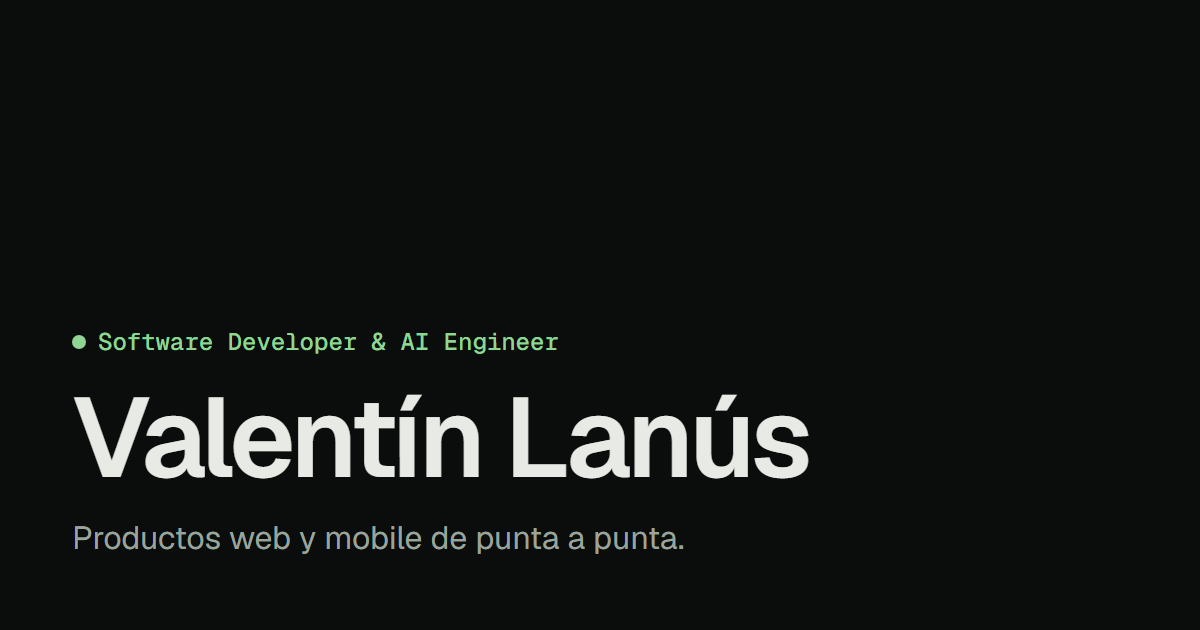
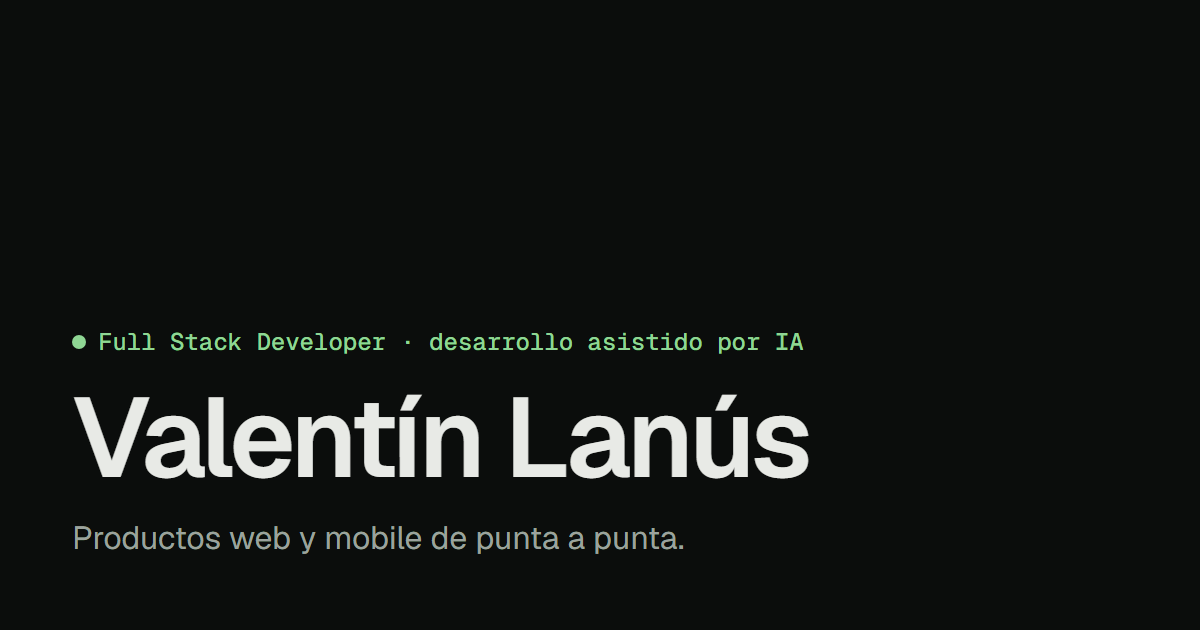
feat: rol Full Stack Developer con desarrollo asistido por IA

Changed region(s): [[0.0617, 0.5127, 0.6783, 0.573]]

diff --git a/src/i18n/es.ts b/src/i18n/es.ts
@@ -3,9 +3,9 @@ import type { SiteContent } from './types';
 
 export default {
   meta: {
-    title: 'Valentín Lanús · Software Developer & AI Engineer',
+    title: 'Valentín Lanús · Full Stack Developer · desarrollo asistido por IA',
     description:
-      'Desarrollador full-stack. Construyo productos web y mobile de punta a punta, con IA integrada donde suma de verdad.',
+      'Desarrollador full stack y mobile. Construyo productos web y mobile de punta a punta, con la IA como herramienta y no como piloto automático.',
     ogImage: '/og-es.png',
   },
   nav: {
@@ -22,9 +22,9 @@ export default {
   hero: {
     eyebrow: '// portfolio',
     name: ['Valentín', 'Lanús'],
-    role: 'Software Developer & AI Engineer',
+    role: 'Full Stack Developer · desarrollo asistido por IA',
     tagline:
-      'Construyo productos web y mobile de punta a punta, del backend a la interfaz, con IA integrada donde suma de verdad.',
+      'Construyo productos web y mobile de punta a punta, del backend a la interfaz, con la IA como herramienta y no como piloto automático.',
     ctaPrimary: 'Hablemos',
     ctaSecondary: 'Ver proyectos',
   },

diff --git a/src/i18n/en.ts b/src/i18n/en.ts
@@ -3,9 +3,9 @@ import type { SiteContent } from './types';
 
 export default {
   meta: {
-    title: 'Valentín Lanús · Software Developer & AI Engineer',
+    title: 'Valentín Lanús · Full Stack Developer · AI-assisted development',
     description:
-      'Full-stack developer. I build web and mobile products end to end, with AI built in where it actually adds value.',
+      'Full-stack and mobile developer. I build web and mobile products end to end, with AI as a tool, not an autopilot.',
     ogImage: '/og-en.png',
   },
   nav: {
@@ -22,9 +22,9 @@ export default {
   hero: {
     eyebrow: '// portfolio',
     name: ['Valentín', 'Lanús'],
-    role: 'Software Developer & AI Engineer',
+    role: 'Full Stack Developer · AI-assisted development',
     tagline:
-      'I build web and mobile products end to end, from the backend to the interface, with AI built in where it actually adds value.',
+      'I build web and mobile products end to end, from the backend to the interface, with AI as a tool, not an autopilot.',
     ctaPrimary: 'Let’s talk',
     ctaSecondary: 'See projects',
   },

diff --git a/tests/i18n.spec.ts b/tests/i18n.spec.ts
@@ -13,7 +13,7 @@ const SITE = config.site!.replace(/\/$/, '');
 
 test('SEO en inglés: title, canonical y hreflang', async ({ page }) => {
   await page.goto('/en');
-  await expect(page).toHaveTitle('Valentín Lanús · Software Developer & AI Engineer');
+  await expect(page).toHaveTitle('Valentín Lanús · Full Stack Developer · AI-assisted development');
   await expect(page.locator('link[rel="canonical"]')).toHaveAttribute('href', `${SITE}/en`);
   await expect(page.locator('link[hreflang="es"]')).toHaveAttribute('href', `${SITE}/`);
   await expect(page.locator('link[hreflang="en"]')).toHaveAttribute('href', `${SITE}/en`);
@@ -28,7 +28,7 @@ test('SEO en español: descripción y og:locale', async ({ page }) => {
   await page.goto('/');
   await expect(page.locator('meta[name="description"]')).toHaveAttribute(
     'content',
-    /Desarrollador full-stack/,
+    /Desarrollador full stack y mobile/,
   );
   await expect(page.locator('meta[property="og:locale"]')).toHaveAttribute('content', 'es_AR');
   await expect(page.locator('main#main')).toHaveCount(1);

diff --git a/CONTENT.md b/CONTENT.md
@@ -6,9 +6,9 @@ y decisiones de arquitectura. NO usar "Senior" ni inventar años de experiencia.
 
 ## Hero
 Valentín Lanús
-Software Developer & AI Engineer
+Full Stack Developer · desarrollo asistido por IA
 Construyo productos web y mobile de punta a punta, del backend a la interfaz,
-con IA integrada donde suma de verdad.
+con la IA como herramienta y no como piloto automático.
 
 ## Sobre mí
 Soy desarrollador full stack y mobile. Diseño y construyo aplicaciones completas: APIs, bases de datos, autenticación, interfaces web y apps nativas para Android.
